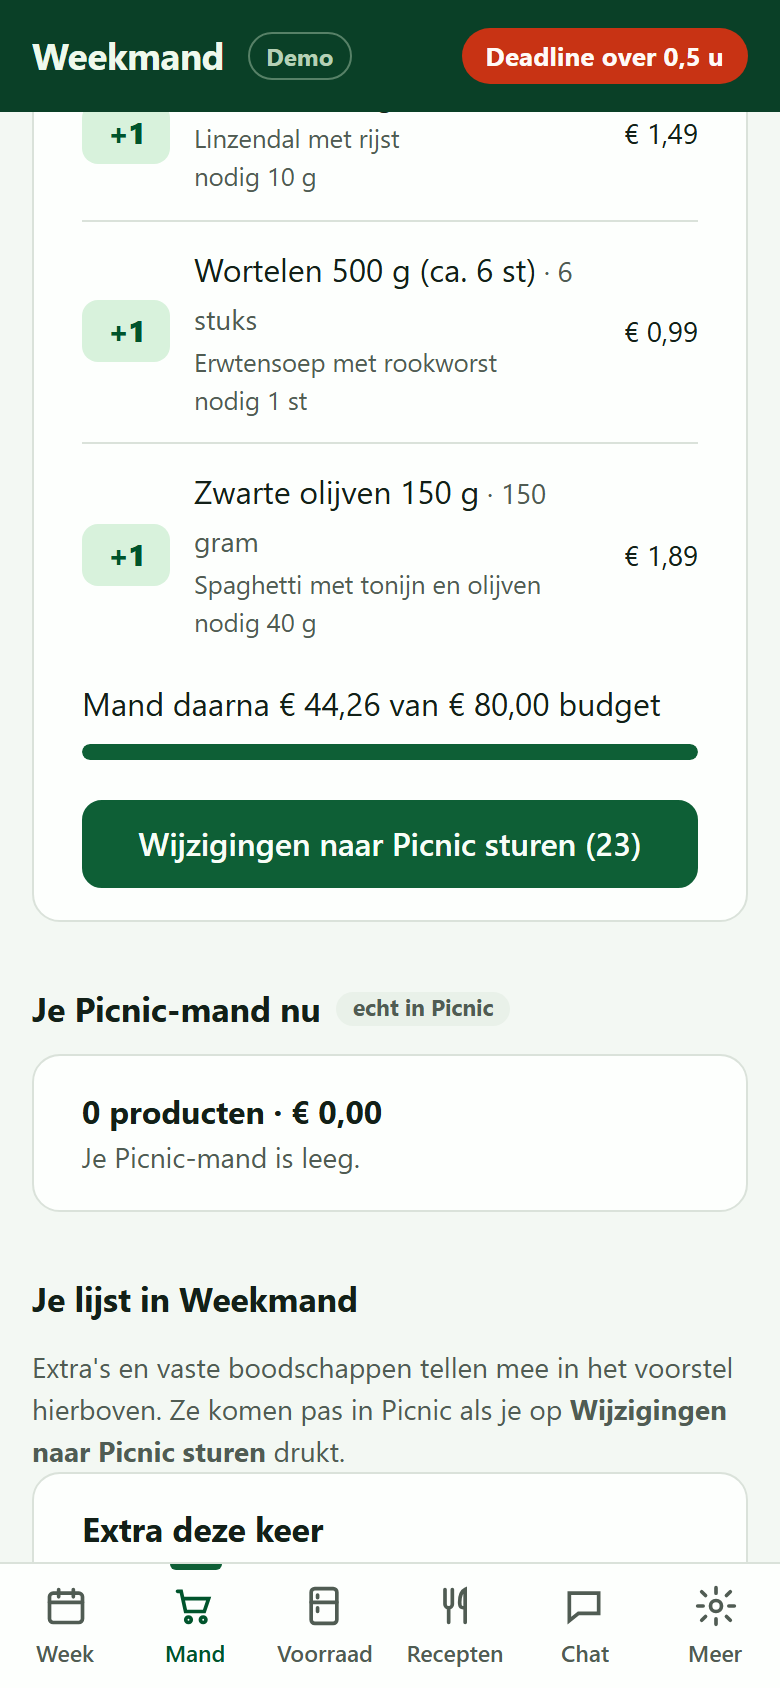
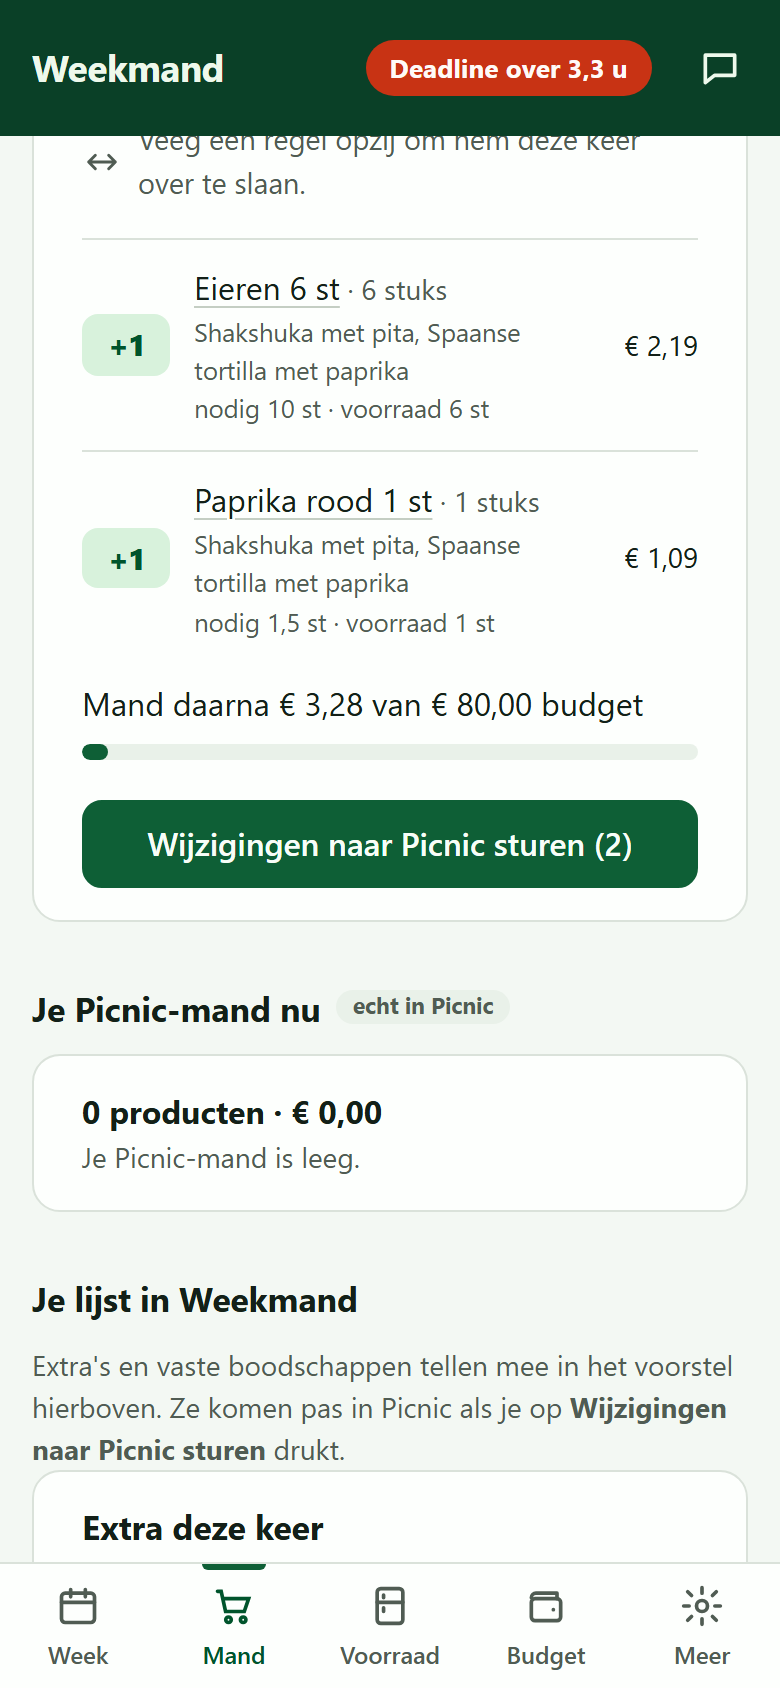
README en schermafbeeldingen bijwerken naar de huidige versie
Schermafbeeldingen vernieuwd (week, mand met productfoto's, voorraad en het nieuwe budget-tabblad) en de stappen in de README aangepast aan de nieuwe functies.

diff --git a/README.md b/README.md
@@ -6,6 +6,7 @@ Weekmand is een lokale boodschappenassistent voor een huishouden dat bij Picnic 
   <img src="docs/screenshots/week.png" alt="Weekmenu" width="240">
   <img src="docs/screenshots/mand.png" alt="Mand met voorgestelde wijzigingen" width="240">
   <img src="docs/screenshots/voorraad.png" alt="Voorraad" width="240">
+  <img src="docs/screenshots/budget.png" alt="Budget" width="240">
 </p>
 
 Meer details: [docs/DETAILS.md](docs/DETAILS.md).
@@ -42,8 +43,8 @@ Naar een NanoPi R4S met OpenWrt uitrollen doe je met `deploy/Update-Weekmand.ps1
 
 Elke week:
 
-1. **Week**: maak het weekmenu, kies het bezorgmoment en keur het goed.
-2. **Mand**: bekijk de boodschappen die Weekmand heeft berekend en klik op **Naar Picnic sturen**. Wat je zelf in de Picnic-mand hebt gelegd, blijft staan.
+1. **Week**: maak het weekmenu, kies het bezorgmoment en keur het goed. Vink gerechten aan die je hebt gekookt, of vervang ze door **Ander gerecht**.
+2. **Mand**: bekijk de boodschappen (met productfoto's) die Weekmand heeft berekend en klik op **Wijzigingen naar Picnic sturen**. Wat je zelf in de Picnic-mand hebt gelegd, blijft staan.
 3. Rond de bestelling af en betaal in de Picnic-app.
 4. **Voorraad**: klik op **is op** als iets op is, of scan de barcode van het product.
 5. **Recepten**: geef gerechten een duimpje omhoog of omlaag, zodat het volgende menu beter past.
